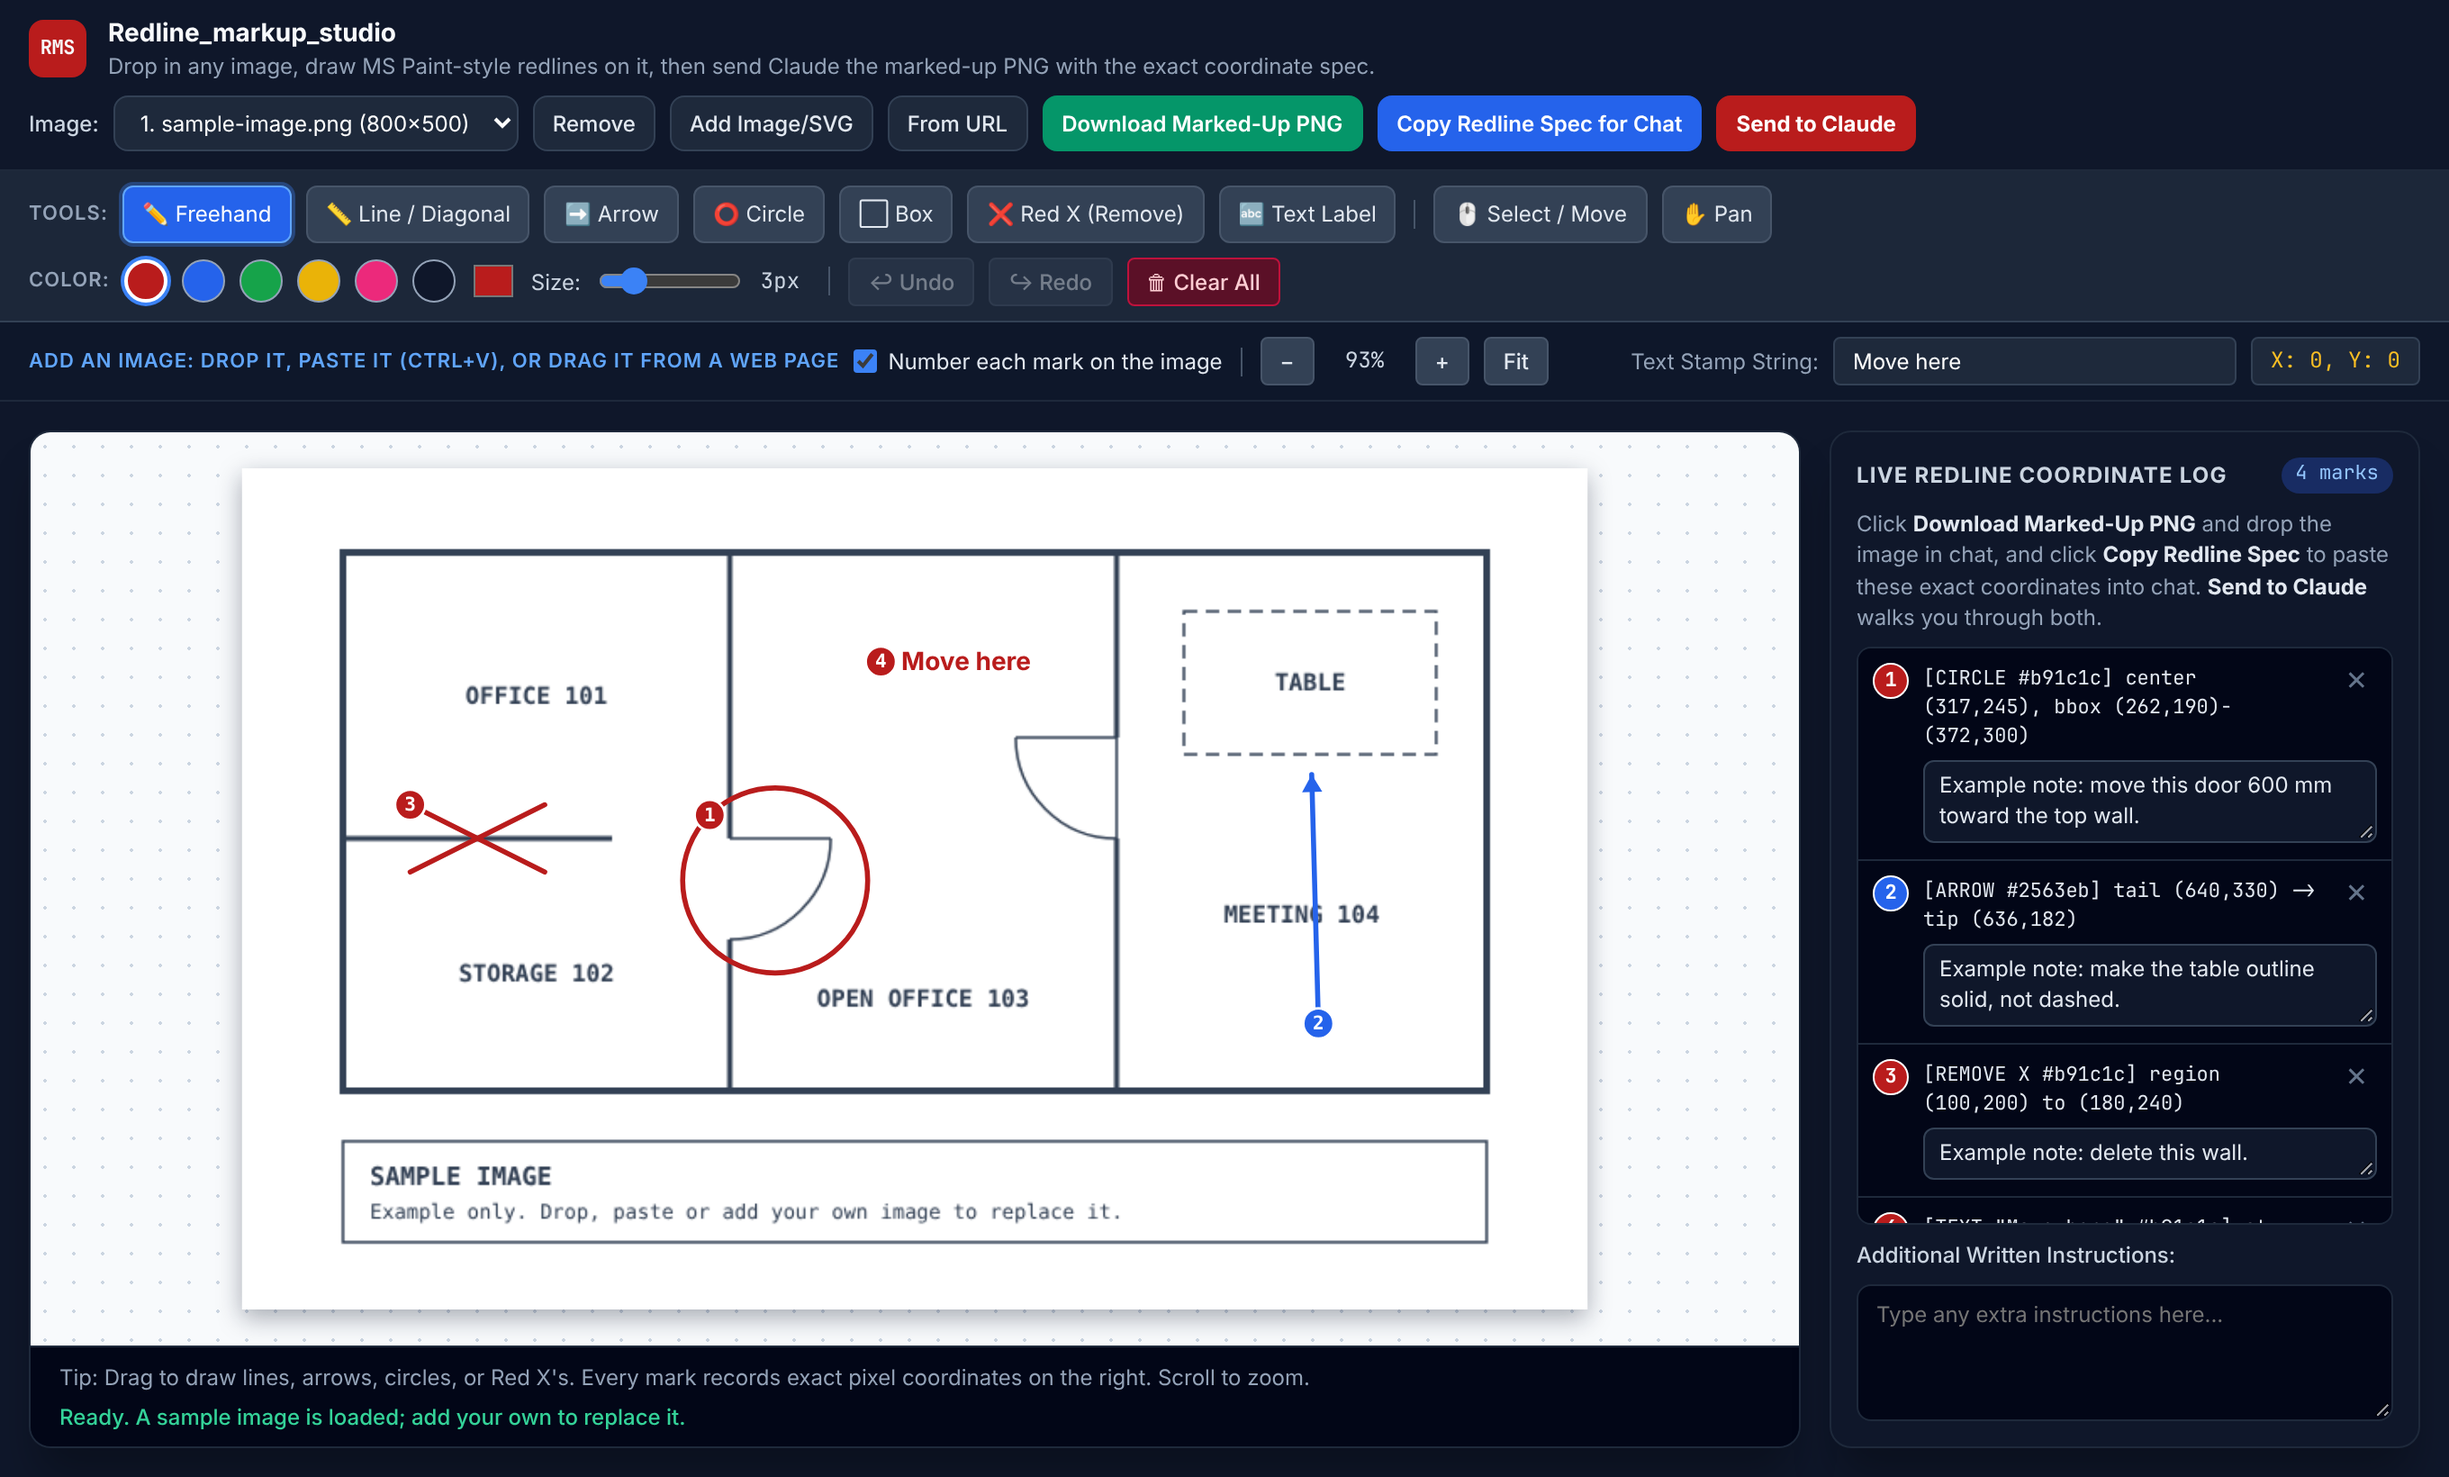
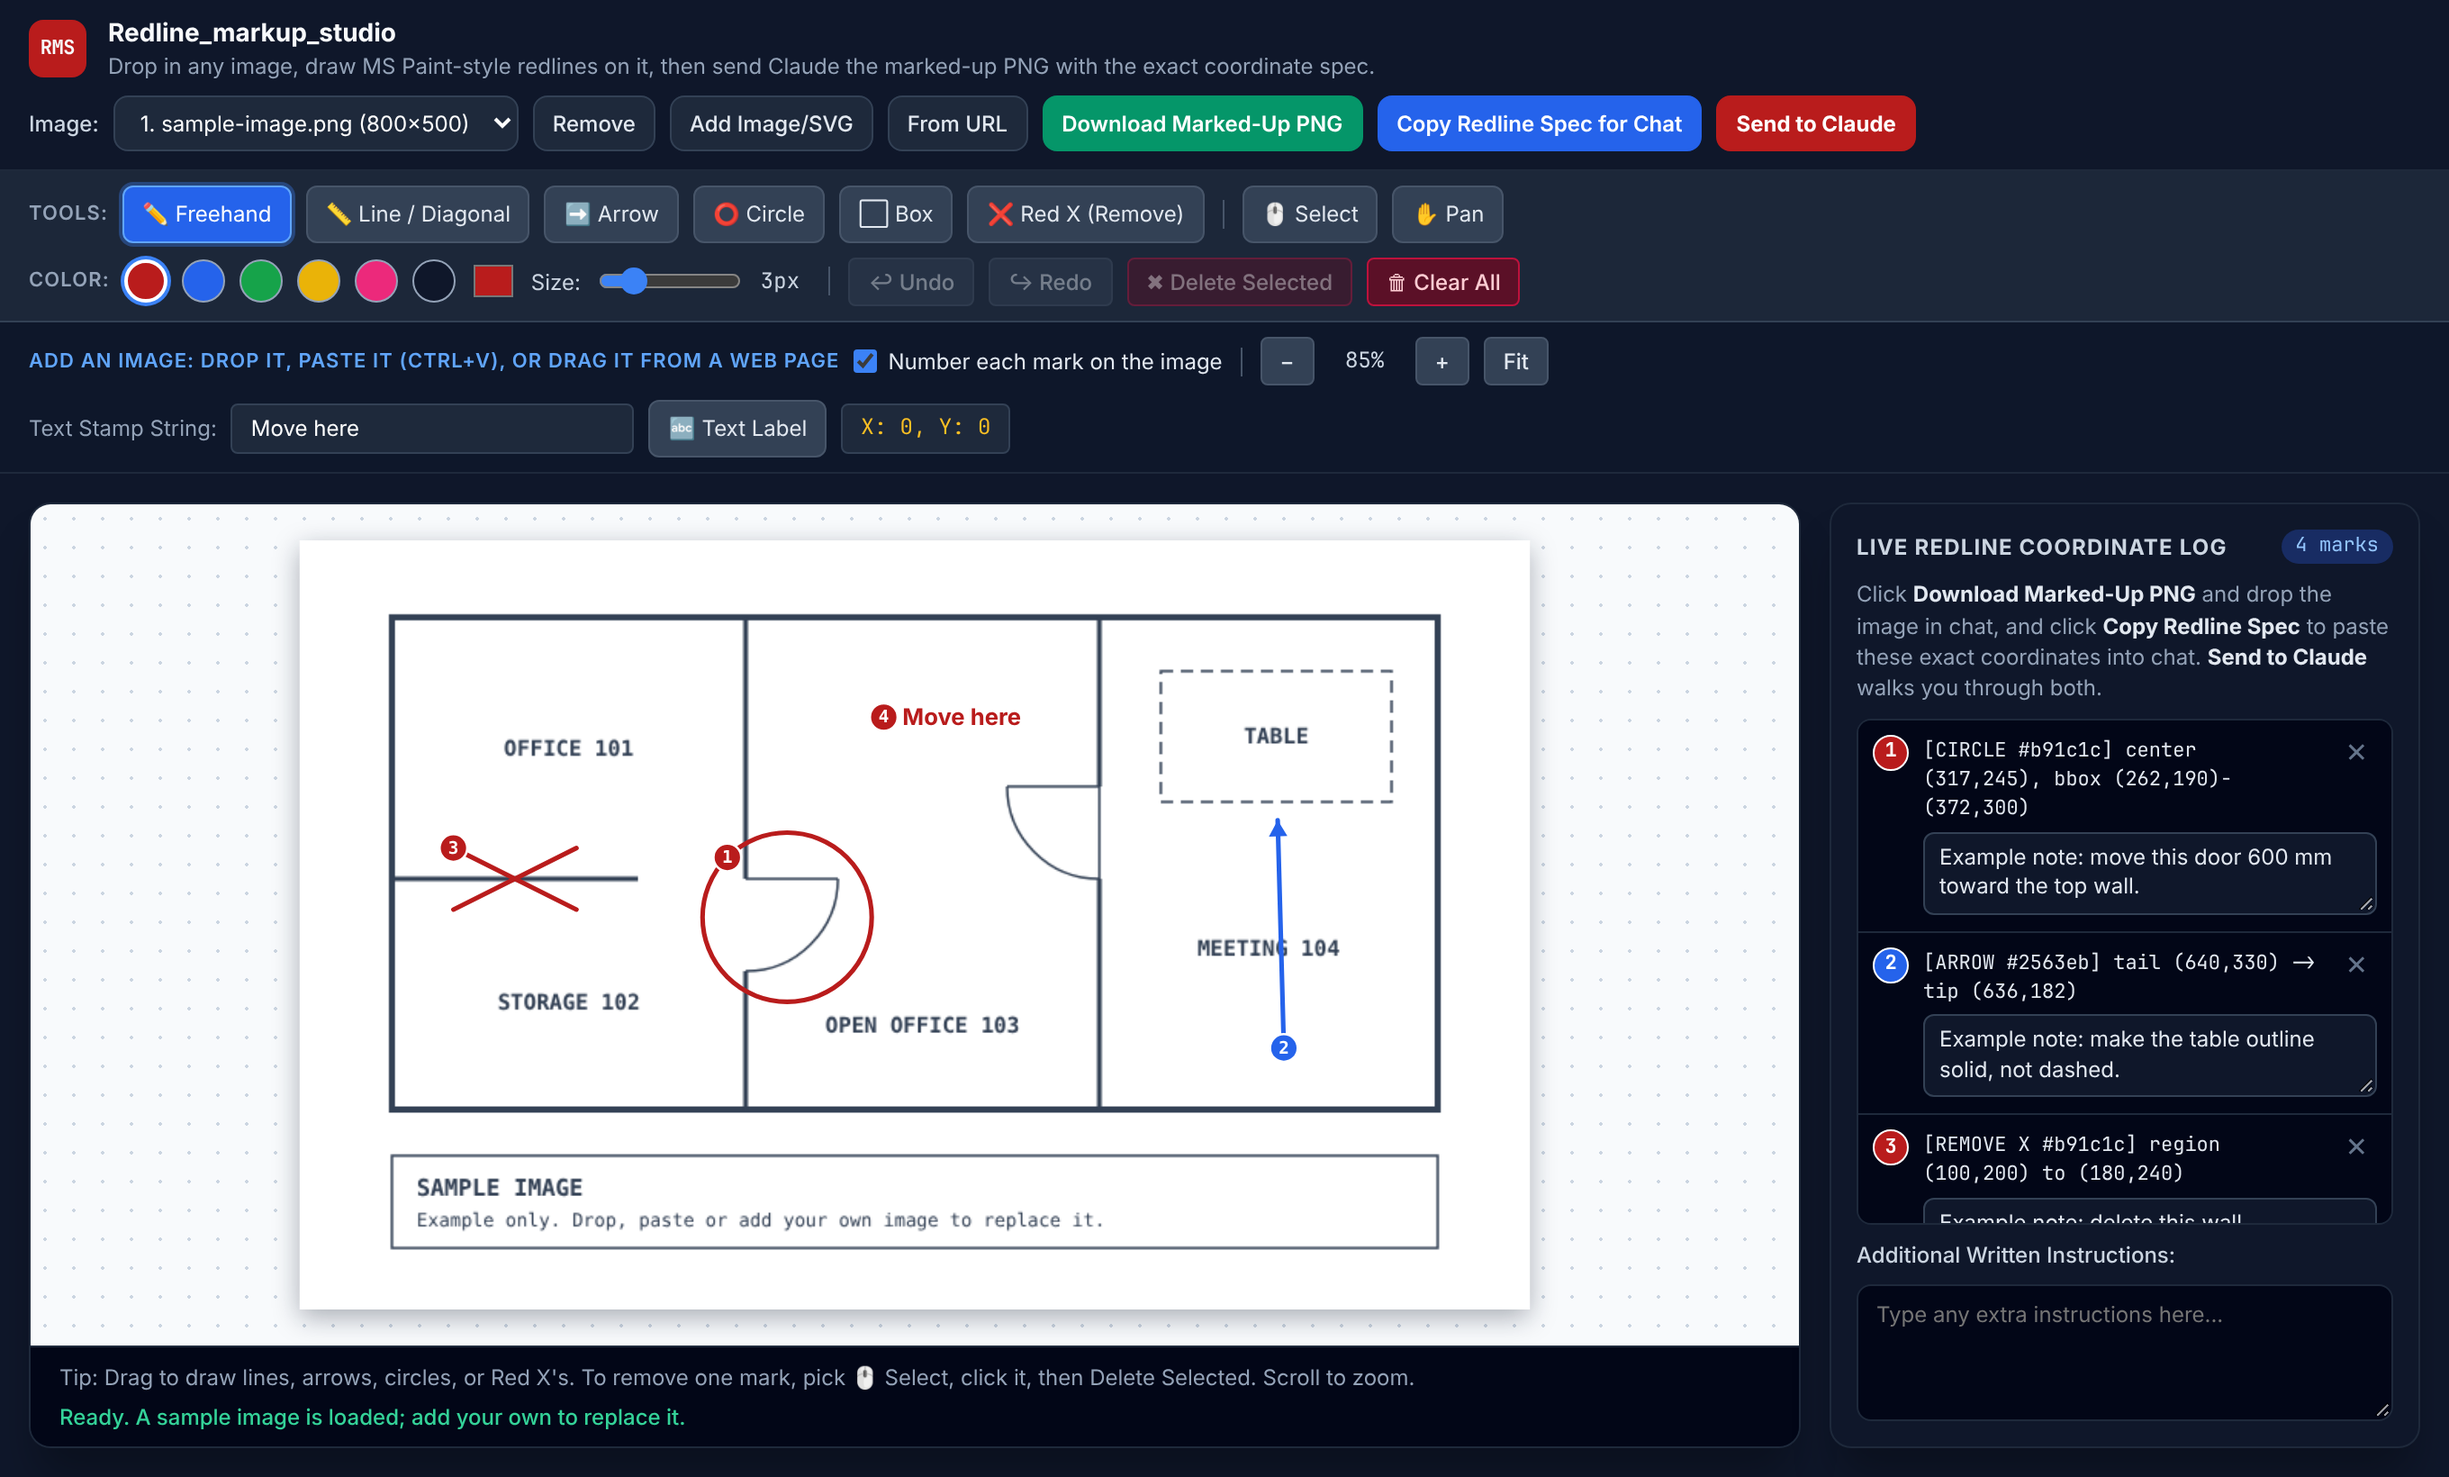
Move Text Label beside the stamp box; add Delete Selected
- Text Label button now sits between the Text Stamp String box and the
  X/Y readout.
- Select tool plus a Delete Selected button remove any single mark,
  however early it was drawn, without undoing the ones after it.

Claude-Session: https://claude.ai/code/session_01XLAJSonBYkxx4QMo15qk5K

diff --git a/skills/redline-markup-studio/assets/Redline_markup_studio.html b/skills/redline-markup-studio/assets/Redline_markup_studio.html
@@ -162,9 +162,8 @@ textarea { width: 100%; background: var(--s950); border: 1px solid var(--s800); 
     <button type="button" data-tool="circle" class="tool-btn">⭕ Circle</button>
     <button type="button" data-tool="rect" class="tool-btn">⬜ Box</button>
     <button type="button" data-tool="cross" class="tool-btn">❌ Red X (Remove)</button>
-    <button type="button" data-tool="text" class="tool-btn">🔤 Text Label</button>
     <span class="sep"></span>
-    <button type="button" data-tool="select" class="tool-btn" title="Click a mark to select it. Drag to move, drag a corner to resize, Delete to remove.">🖱 Select / Move</button>
+    <button type="button" data-tool="select" class="tool-btn" title="Click any mark on the image to select it, then press Delete Selected (or the Delete key). Drag a selected mark to move it, drag a corner to resize it.">🖱 Select</button>
     <button type="button" data-tool="pan" class="tool-btn" title="Drag to move around a zoomed image (or hold Space with any tool)">✋ Pan</button>
   </div>
   <div class="grp">
@@ -182,6 +181,7 @@ textarea { width: 100%; background: var(--s950); border: 1px solid var(--s800); 
     <span class="sep"></span>
     <button id="btn-undo" type="button" class="btn sm">↩ Undo</button>
     <button id="btn-redo" type="button" class="btn sm">↪ Redo</button>
+    <button id="btn-delete-selected" type="button" class="btn sm danger" disabled title="Removes only the selected mark. Pick one with the Select tool or by clicking its line in the log.">✖ Delete Selected</button>
     <button id="btn-clear" type="button" class="btn sm danger">🗑 Clear All</button>
   </div>
 </div>
@@ -200,6 +200,7 @@ textarea { width: 100%; background: var(--s950); border: 1px solid var(--s800); 
   <div class="grp">
     <label for="text-stamp-input" style="color:var(--s400)">Text Stamp String:</label>
     <input id="text-stamp-input" class="field" type="text" placeholder="Type label, then click canvas with 🔤 Text tool..." value="Move here" style="width:224px;border-radius:4px;padding:4px 10px">
+    <button type="button" data-tool="text" class="tool-btn" title="Click the image to stamp the Text Stamp String there">🔤 Text Label</button>
     <span id="cursor-coords" class="mono">X: 0, Y: 0</span>
   </div>
 </div>
@@ -216,7 +217,7 @@ textarea { width: 100%; background: var(--s950); border: 1px solid var(--s800); 
       <div class="dropveil" id="dropveil" hidden>Drop to add this image</div>
     </div>
     <div class="foot">
-      <span>Tip: Drag to draw lines, arrows, circles, or Red X's. Every mark records exact pixel coordinates on the right. Scroll to zoom.</span>
+      <span>Tip: Drag to draw lines, arrows, circles, or Red X's. To remove one mark, pick 🖱 Select, click it, then Delete Selected. Scroll to zoom.</span>
       <span id="status-toast" role="status">Ready.</span>
     </div>
   </div>
@@ -532,6 +533,13 @@ function updateLog() {
 function grow(ta) { ta.style.height = 'auto'; ta.style.height = Math.min(140, ta.scrollHeight + 2) + 'px'; }
 function markSel(scroll) {
   for (const r of $('redline-log').children) { const on = Number(r.dataset.id) === selectedId; r.classList.toggle('sel', on); if (on && scroll) r.scrollIntoView({ block: 'nearest' }); }
+  $('btn-delete-selected').disabled = !selected();
+}
+function deleteSelected() {
+  const s = cur(), a = selected(); if (!s || !a) return;
+  const n = s.actions.indexOf(a) + 1;
+  pushUndo(); s.actions.splice(n - 1, 1); selectedId = null; refresh();
+  showToast(`Deleted mark ${n}. The other marks are untouched; Undo brings it back.`);
 }
 function syncButtons() {
   const s = cur();
@@ -563,7 +571,8 @@ canvas.addEventListener('pointerdown', (e) => {
     else {
       const a = [...s.actions].reverse().find(a => hit(a, s, pos.rx, pos.ry, tol));
       selectedId = a ? a.id : null; markSel(true);
-      if (a) { pushUndo(); drag = { kind: 'move', a, x: pos.x, y: pos.y, moved: false }; }
+      if (a) { pushUndo(); drag = { kind: 'move', a, x: pos.x, y: pos.y, moved: false }; showToast(`Selected mark ${s.actions.indexOf(a) + 1}. Click Delete Selected (or press Delete) to remove it, or drag to move it.`); }
+      else showToast('Nothing selected. Click directly on a mark or its number.');
     }
   } else if (currentTool === 'text') {
     const txt = textStampInput.value.trim() || 'Note';
@@ -625,7 +634,7 @@ document.addEventListener('keydown', (e) => {
   if (mod && k === 'y') { e.preventDefault(); step('redo', 'undo'); return; }
   if (mod || e.altKey) return;
   if (e.key === ' ') { spaceDown = true; canvas.style.cursor = 'grab'; e.preventDefault(); return; }
-  if ((e.key === 'Delete' || e.key === 'Backspace') && a) { pushUndo(); s.actions.splice(s.actions.indexOf(a), 1); selectedId = null; refresh(); e.preventDefault(); return; }
+  if ((e.key === 'Delete' || e.key === 'Backspace') && a) { deleteSelected(); e.preventDefault(); return; }
   if (e.key === 'Escape') { selectedId = null; drag = null; refresh(); return; }
   if (e.key.startsWith('Arrow') && a) {
     const d = e.shiftKey ? 10 : 1; pushUndo();
@@ -802,6 +811,7 @@ $('stroke-width').addEventListener('input', (e) => {
 });
 $('btn-undo').addEventListener('click', () => step('undo', 'redo'));
 $('btn-redo').addEventListener('click', () => step('redo', 'undo'));
+$('btn-delete-selected').addEventListener('click', deleteSelected);
 $('btn-clear').addEventListener('click', () => { const s = cur(); if (!s || !s.actions.length) return; pushUndo(); s.actions = []; selectedId = null; refresh(); showToast('Cleared all redline annotations. Undo brings them back.'); });
 imageSelect.addEventListener('change', (e) => { current = Number(e.target.value); selectedId = null; refresh(); showToast(`Showing ${cur().name}`); });
 $('btn-remove-image').addEventListener('click', () => { const s = cur(); if (!s) return; images.splice(current, 1); current = Math.min(current, images.length - 1); selectedId = null; refresh(); showToast(`Removed ${s.name}`); });

diff --git a/README.md b/README.md
@@ -12,7 +12,8 @@ It is a Claude **plugin** that carries one **skill**. The same skill also upload
 - **The original markup tools.** Freehand, Line / Diagonal, Arrow, Circle, Box, Red X (Remove) and Text Label, six colour swatches plus a custom colour, sizes 1-12, Undo, Redo and Clear All.
 - **A live coordinate log.** Every mark gets a numbered line with exact pixel coordinates, and the same number is drawn as a badge on the image. Add a note to any mark to say what should change there.
 - **One-click hand-off.** In Claude Code, **Send to Claude** saves the marked-up PNG, the clean original and the spec into your project and Claude picks them up. Anywhere else, copy or download the image and copy the spec into the chat.
-- **Extras.** Select / Move to adjust or delete a single mark, zoom and pan for large images, several images at once.
+- **Fix one mark without undoing the rest.** Pick Select, click any mark on the image (or its line in the log), then Delete Selected. Drag a selected mark to move it.
+- **Extras.** Zoom and pan for large images, several images at once.
 - **Private.** The studio loads nothing from the internet. In Claude Code the helper listens on `127.0.0.1` only and writes to `.redline_markup_studio/` inside your project (ignored by git).
 
 ## Install in Claude Code
